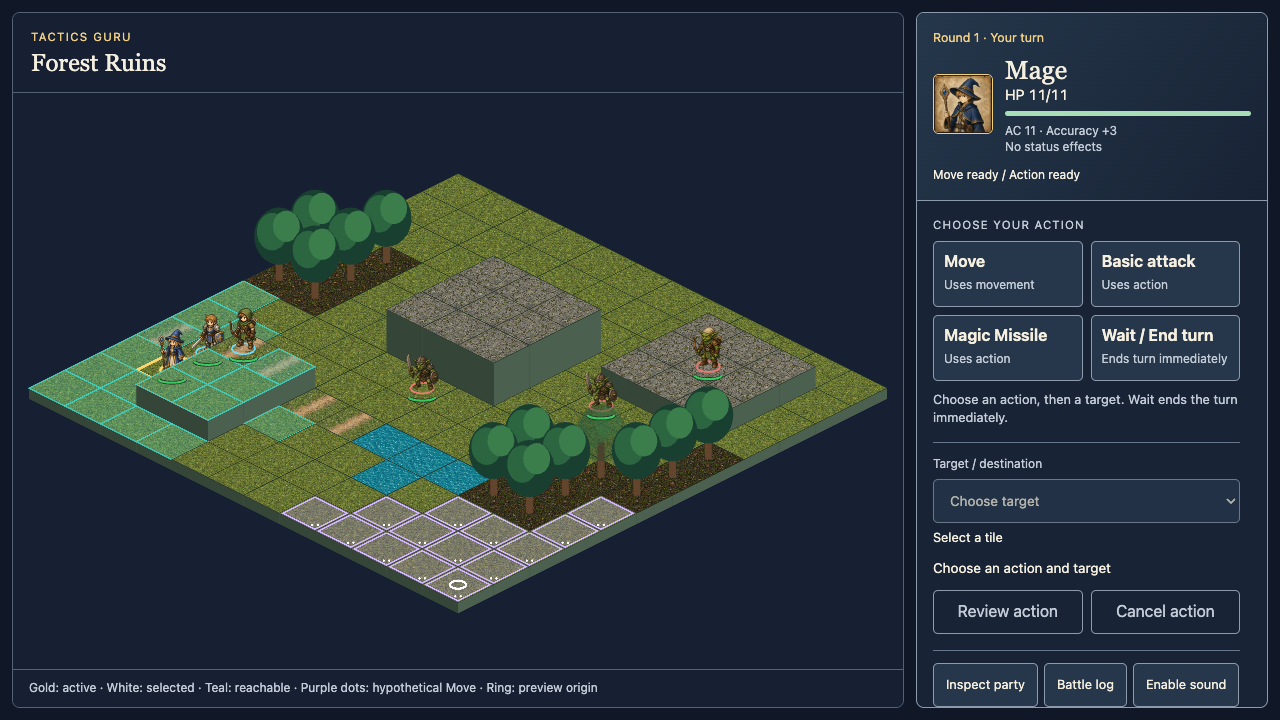
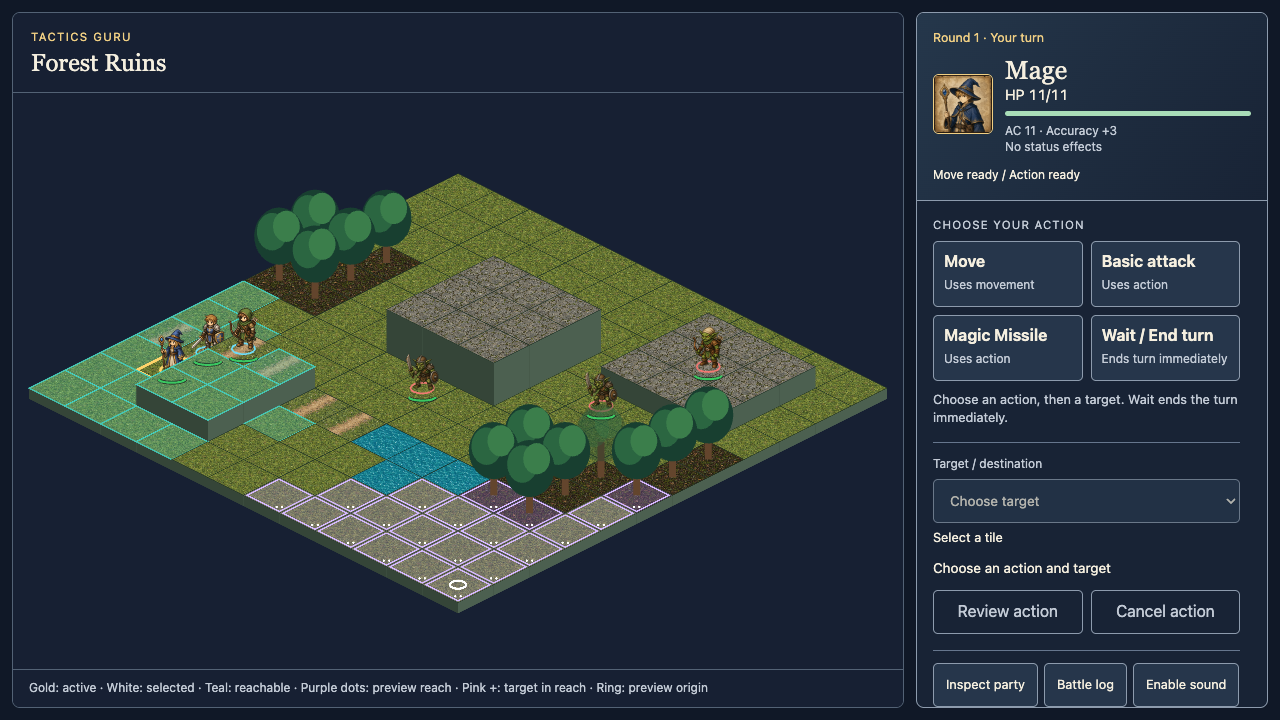
Include occupied cells and ability targets in hover reach

Changed region(s): [[0.1875, 0.6722, 0.4375, 0.7333], [0.2812, 0.9472, 0.5625, 0.9778], [0.4688, 0.6722, 0.5312, 0.7028]]

diff --git a/src/phaser/BoardRenderer.ts b/src/phaser/BoardRenderer.ts
@@ -7,7 +7,7 @@ import { boardBounds, fitBoard, orderTiles, projectTile, tileFaces, BASE_THICKNE
 import { constrainView, MAX_ZOOM, pickTile, screenToBoard, type View } from '../geometry/picking';
 import { HEALTH_BAR, HEALTH_COLORS, healthArc, healthBarScale, healthColor, healthFraction } from './healthBar';
 import { abilityPresentation, type SignatureKind } from './abilityPresentation';
-import type { TargetOverlay, MovementHover } from '../ui/targetPreview';
+import type { TargetOverlay, HoverPreview } from '../ui/targetPreview';
 
 const REACHABLE_COLOR = 0x46d7c7;
 const ACTIVE_COLOR = 0xffd36a;
@@ -34,7 +34,7 @@ export class BoardRenderer {
   private snapshot: BattleState | undefined;
   private reachable: readonly CellPosition[] = [];
   private targets: readonly TargetOverlay[] = [];
-  private hoverPreview: MovementHover | null = null;
+  private hoverPreview: HoverPreview | null = null;
   private selected: Tile | null = null;
   private selectionEvents = 0;
   private animatedSnapshot: BattleState | undefined;
@@ -142,6 +142,12 @@ export class BoardRenderer {
         graphics.fillStyle(0xffffff).fillCircle(-3,13,1.3).fillCircle(3,13,1.3);
       }
       if(flags&256) graphics.lineStyle(2.5,0xffffff).strokeEllipse(0,0,18,9);
+      if(flags&512) {
+        graphics.fillStyle(0xff82c4,0.4).fillPoints(vertices,true);
+        graphics.lineStyle(2.5,0xffb9df).strokePoints(vertices,true);
+        graphics.lineStyle(4,0x172033).lineBetween(-5,13,5,13).lineBetween(0,9,0,17);
+        graphics.lineStyle(2,0xffffff).lineBetween(-5,13,5,13).lineBetween(0,9,0,17);
+      }
       if(flags&48) {
         const valid=!!(flags&16),color=valid?0x63eba0:0xff867c;
         graphics.fillStyle(color,0.32).fillPoints(vertices,true);
@@ -154,7 +160,7 @@ export class BoardRenderer {
     });
   }
 
-  present(snapshot: BattleState, reachable: readonly CellPosition[], selected: CellPosition | null, path: readonly CellPosition[] = [], targets: readonly TargetOverlay[] = [], hover: MovementHover | null = null): void {
+  present(snapshot: BattleState, reachable: readonly CellPosition[], selected: CellPosition | null, path: readonly CellPosition[] = [], targets: readonly TargetOverlay[] = [], hover: HoverPreview | null = null): void {
     // Modal/layout refreshes must not remove a defeated target before impact.
     snapshot = this.animatedSnapshot ?? snapshot;
     this.snapshot = snapshot;
@@ -168,13 +174,15 @@ export class BoardRenderer {
     const pathKeys = new Set(path.map(cellKey));
     const targetByCell = new Map(this.targets.map(target => [cellKey(target.cell),target]));
     const hoverKeys = new Set(this.hoverPreview?.cells.map(cellKey));
+    const hoverTargetKeys = new Set(this.hoverPreview?.targets.map(cellKey));
     for (const tile of this.board.tiles) {
       const key = cellKey(tile);
       const target = targetByCell.get(key);
       const flags = (reachableKeys.has(key) && key !== cellKey(active.cell) ? 1 : 0)
         | (key === cellKey(active.cell) ? 2 : 0) | (pathKeys.has(key) ? 4 : 0) | (this.selected === tile && !target ? 8 : 0)
         | (target ? target.valid ? 16 : 32 : 0) | (target?.selected ? 64 : 0)
-        | (hoverKeys.has(key) ? 128 : 0) | (this.hoverPreview && key===cellKey(this.hoverPreview.origin) ? 256 : 0);
+        | (hoverKeys.has(key) ? 128 : 0) | (this.hoverPreview && key===cellKey(this.hoverPreview.origin) ? 256 : 0)
+        | (hoverTargetKeys.has(key) && !target ? 512 : 0);
       this.highlights.get(key)!.setTexture(this.highlightTexture(flags));
     }
     for (const unit of snapshot.units) {

diff --git a/tests/battle-board.spec.ts b/tests/battle-board.spec.ts
@@ -5,6 +5,8 @@ import { buildBoardPresentation } from '../src/geometry/boardPresentation';
 import { MAX_ZOOM, pickTile, screenToBoard } from '../src/geometry/picking';
 import { fitBoard, projectTile, tileFaces, type Point } from '../src/geometry/iso';
 import { previewMovement } from '../src/domain/grid';
+import { BattleSession } from '../src/app/BattleSession';
+import { hoverPreview } from '../src/ui/targetPreview';
 
 async function report(page: Page) {
   return JSON.parse((await page.locator('#game').getAttribute('data-battle-report'))!);
@@ -28,12 +30,25 @@ test('hovered origins show hypothetical movement range without changing selectio
     await page.mouse.move(r.transform.x+p.x*r.transform.scale,r.transform.y+p.y*r.transform.scale);
   };
   await hover(origin);
-  await expect.poll(async()=>(await report(page)).hover).toEqual({origin,cells:expected.cells.map(c=>c.cell)});
-  await expect(page.locator('#battle-board-caption')).toContainText('Purple dots: hypothetical Move');
+  const expectedHover=hoverPreview(new BattleSession(battleCatalog,state,state.seed),origin);
+  await expect.poll(async()=>(await report(page)).hover).toEqual(expectedHover);
+  expect(expectedHover?.cells).toEqual(expect.arrayContaining(expected.cells.map(c=>c.cell)));
+  await expect(page.locator('#battle-board-caption')).toContainText('Pink +: target in reach');
   const shown=await settledReport(page);expect(shown.selected).toBeNull();expect(shown.selectionEvents).toBe(initial.selectionEvents);
   expect(await page.locator('#game').getAttribute('data-session')).toBe(before);
   expect(await page.evaluate(()=>JSON.stringify(localStorage))).toBe(saved);
   await page.screenshot({path:info.outputPath('hover-movement-range.png')});
+  // Screenshot regression: occupied goblin cells must remain in the preview, including Magic Missile reach.
+  const mageOrigin={x:4,y:8};
+  if(state.units.find((u:any)=>u.id===initial.activeId).defId!=='mage')throw Error('Expected authored opening mage turn');
+  await hover(mageOrigin);
+  const magePreview=hoverPreview(new BattleSession(battleCatalog,state,state.seed),mageOrigin)!;
+  const goblin=state.units.find((u:any)=>u.side==='enemy' && magePreview.targets.some(c=>c.x===u.cell.x&&c.y===u.cell.y));
+  expect(goblin).toBeDefined();
+  await expect.poll(async()=>(await report(page)).hover?.cells).toContainEqual(goblin.cell);
+  await expect.poll(async()=>(await report(page)).hover?.targets).toContainEqual(goblin.cell);
+  expect(await page.locator('#game').getAttribute('data-session')).toBe(before);
+  await settledReport(page);await page.screenshot({path:info.outputPath('hover-goblin-target.png')});
   await page.mouse.move(1,1);await expect.poll(async()=>(await report(page)).hover).toBeNull();
   await hover(origin);await page.mouse.wheel(0,-100);
   await expect.poll(async()=>(await report(page)).hover).toBeNull();

diff --git a/tests/unit/battleSession.test.ts b/tests/unit/battleSession.test.ts
@@ -6,7 +6,7 @@ import { replayBattle } from '../../src/domain/turns';
 import { assert } from 'vitest';
 import { saveFixtures } from '../helpers/saveFixtures';
 import { nextUint32 } from '../../src/domain/rng';
-import { targetOverlays } from '../../src/ui/targetPreview';
+import { targetOverlays, hoverPreview } from '../../src/ui/targetPreview';
 
 const make = (seed = 1) => new BattleSession(catalog, 'map:forest_ruins', seed);
 const finishEnemies = (s: BattleSession) => {
@@ -16,6 +16,24 @@ const finishEnemies = (s: BattleSession) => {
   }
 };
 describe('battle session', () => {
+  it('hover reach includes occupied movement endpoints and Magic Missile targets beyond Move range without mutating the session',()=>{
+    const initial=make(2).state,mage=initial.units.find(u=>u.defId==='mage')!,enemy=initial.units.find(u=>u.side==='enemy')!;
+    const state={...initial,activeIndex:initial.initiative.indexOf(mage.id),units:initial.units.map(u=>u.id===enemy.id?{...u,cell:{x:7,y:6}}:u)};
+    const s=new BattleSession(catalog,state,state.seed),origin={x:4,y:8};
+    s.prepare({type:'endTurn',unitId:mage.id});const pending=s.pending,before=s.state;
+    const movement=previewMovement(s.state,mage.id,catalog,origin);assert(movement.ok);
+    expect(movement.cells.map(c=>c.cell)).not.toContainEqual({x:7,y:6});
+    const hover=hoverPreview(s,origin)!;
+    expect(hover.cells).toContainEqual({x:7,y:6});expect(hover.targets).toContainEqual({x:7,y:6});
+    expect(hover.cells).toContainEqual({x:6,y:8}); // Water is in spell reach even though it cannot be walked on.
+    expect(s.state).toBe(before);expect(s.pending).toBe(pending);expect(s.events).toEqual([]);
+    const blockedState={...state,units:state.units.map(u=>u.id===enemy.id?{...u,cell:{x:2,y:3}}:u)};
+    const blocked=new BattleSession(catalog,blockedState,state.seed);
+    expect(hoverPreview(blocked,{x:0,y:3})!.targets).not.toContainEqual({x:2,y:3});
+    const spent=new BattleSession(catalog,{...state,units:state.units.map(u=>u.id===mage.id?{...u,hasActed:true}:u)},state.seed);
+    expect(hoverPreview(spent,origin)!.targets).toEqual([]);
+    expect(hoverPreview(spent,origin)!.cells).not.toContainEqual({x:7,y:6});
+  });
   it('target overlays retain domain rejection reasons and never prepare, resolve or consume RNG', () => {
     const initial = make(2).state;
     const ranger = initial.units.find(u=>u.defId==='ranger')!;

diff --git a/src/ui/targetPreview.ts b/src/ui/targetPreview.ts
@@ -2,16 +2,34 @@ import type { CellPosition } from '../content/types';
 import type { BattleSession } from '../app/BattleSession';
 import { actionCommand, type Action } from './hud';
 import { previewMovement } from '../domain/grid';
+import { lineOfSightBlocked, manhattanDistance } from '../domain/targeting';
+import { previewAttack, previewMagicMissile } from '../domain/combat';
 
-export interface MovementHover {
+export interface HoverPreview {
   readonly origin: CellPosition;
   readonly cells: readonly CellPosition[];
+  readonly targets: readonly CellPosition[];
 }
 
-export function movementHover(session: BattleSession, origin: CellPosition | null): MovementHover | null {
+export function hoverPreview(session: BattleSession, origin: CellPosition | null): HoverPreview | null {
   if (session.phase !== 'player' || !origin) return null;
   const reach = previewMovement(session.state, session.active.id, session.catalog, origin);
-  return reach.ok ? {origin, cells:reach.cells.map(c=>c.cell)} : null;
+  if (!reach.ok) return null;
+  const {catalog,state,active}=session;
+  const abilities=active.hasActed?[]:Object.values(catalog.abilities).filter(a=>a.owners.includes(active.defId));
+  const cells=new Map(reach.cells.map(c=>[`${c.cell.x},${c.cell.y}`,c.cell]));
+  for(const cell of catalog.maps[state.mapId].cells) {
+    const distance=manhattanDistance(origin,cell);
+    if(abilities.some(a=>distance>=a.rangeMin && distance<=a.rangeMax)
+      && !lineOfSightBlocked(catalog,state.mapId,origin,cell))cells.set(`${cell.x},${cell.y}`,{x:cell.x,y:cell.y});
+  }
+  // Query a relocated snapshot only; never prepare or resolve a command in the live session.
+  const hypothetical={...state,units:state.units.map(u=>u.id===active.id?{...u,cell:origin}:u)};
+  const targets=state.units.filter(u=>u.hp>0 && u.id!==active.id && abilities.some(a=>{
+    const command={type:'useAbility' as const,unitId:active.id,abilityId:a.id,target:{unitId:u.id}};
+    return (a.kind==='magicMissile'?previewMagicMissile:previewAttack)(hypothetical,command,catalog).ok;
+  })).map(u=>u.cell);
+  return {origin,cells:[...cells.values()],targets};
 }
 
 export interface TargetOverlay {

diff --git a/tests/unit/grid.test.ts b/tests/unit/grid.test.ts
@@ -39,13 +39,24 @@ it('projects movement from a hypothetical origin using the actor stats without m
   expect(reach.cells).toContainEqual({cell:{x:2,y:1},cost:2});
   expect(reach.cells.some(r=>r.cell.x===3&&r.cell.y===1)).toBe(false); // Jump blocks the rise of two.
   expect(reach.cells.some(r=>r.cell.x===2&&r.cell.y===2)).toBe(false); // Water.
-  expect(reach.cells.some(r=>r.cell.x===3&&r.cell.y===2)).toBe(false); // Living enemy.
+  expect(reach.cells.some(r=>r.cell.x===3&&r.cell.y===2)).toBe(false); // Water and excessive elevation block every route.
   expect(reach.cells).toContainEqual({cell:{x:0,y:0},cost:2}); // Actual actor cell is released for this hypothetical query.
   expect(JSON.stringify(state)).toBe(before);
   expect(previewMovement(state,1,catalog,{x:3,y:2})).toEqual({ok:false,reason:'occupied'});
   expect(previewMovement(state,1,catalog,{x:2,y:2})).toEqual({ok:false,reason:'notWalkable'});
   expect(previewMovement(state,1,catalog,{x:-1,y:1})).toEqual({ok:false,reason:'outOfBounds'});
   expect(previewMovement({...state,units:state.units.map(u=>u.id===1?{...u,hasMoved:true}:u)},1,catalog,origin)).toEqual({ok:false,reason:'alreadyMoved'});
+});
+
+it('includes occupied hypothetical endpoints without traversing through them or changing real movement',()=>{
+  const {catalog,state}=fixture(cells=>{for(let i=4;i<12;i++)cells[i].terrainId='water';});
+  const s={...state,units:state.units.map(u=>u.id===2?{...u,cell:{x:1,y:0}}:u)};
+  const hover=previewMovement(s,1,catalog,{x:0,y:0});assert(hover.ok);
+  expect(hover.cells).toContainEqual({cell:{x:1,y:0},cost:1});
+  expect(hover.cells.some(c=>c.cell.x===2&&c.cell.y===0)).toBe(false);
+  const actual=previewMovement(s,1,catalog);assert(actual.ok);
+  expect(actual.cells.some(c=>c.cell.x===1&&c.cell.y===0)).toBe(false);
+  expect(moveUnit(s,command(1,0),catalog)).toEqual({ok:false,reason:'occupied'});
 });
 it('enforces uphill Jump and cost boundaries while allowing unrestricted downhill', () => {
   const move = (edit: Parameters<typeof fixture>[0]) => { const {catalog,state}=fixture(edit); return previewMove(state,command(1,0),catalog); };

diff --git a/src/domain/grid.ts b/src/domain/grid.ts
@@ -26,19 +26,22 @@ function search(state: BattleState, unitId: number, catalog: ContentCatalog, ori
     for (const direction of MOVEMENT_DIRECTIONS) {
       const cell = { x: current.cell.x + direction.x, y: current.cell.y + direction.y };
       const tile = tiles.get(key(cell));
-      if (!tile || cell.x < 0 || cell.y < 0 || cell.x >= map.width || cell.y >= map.height || occupied.has(key(cell))) continue;
+      const occupiedCell = occupied.has(key(cell));
+      if (!tile || cell.x < 0 || cell.y < 0 || cell.x >= map.width || cell.y >= map.height || (occupiedCell && !origin)) continue;
       const terrain = catalog.terrains[tile.terrainId];
       const uphill = Math.max(0, tile.elevation - from.elevation);
       if (!terrain.walkable || uphill > stats.jump) continue;
       const cost = current.cost + terrain.moveCost + uphill;
       if (cost > stats.move || cost >= (routes.get(key(cell))?.cost ?? Infinity)) continue;
       const route = { cell, cost, path: [...current.path, cell] };
-      routes.set(key(cell), route); frontier.push(route);
+      routes.set(key(cell), route);
+      // A hypothetical range includes occupied endpoints, but never paths through units.
+      if (!occupiedCell) frontier.push(route);
     }
   }
   return routes;
 }
-/** Reachability for the active actor; an optional hypothetical origin is presentation-only and never moves the actor. */
+/** Optional hypothetical origins include occupied endpoints for planning, without moving the actor or traversing units. */
 export function previewMovement(state: unknown, unitId: number, catalog: ContentCatalog, origin?: CellPosition): { readonly ok: true; readonly cells: readonly ReachableCell[] } | Rejection {
   const intent = previewCommand(state, { type: 'endTurn', unitId }, catalog);
   if (!intent.ok) return intent;

diff --git a/src/phaser/BattleScene.ts b/src/phaser/BattleScene.ts
@@ -9,7 +9,7 @@ import type { Point, BoardRegion } from '../geometry/iso';
 import { BattleHud, actionCommand, previewText, displayName, unitFeedback, unitLabel, type Action } from '../ui/hud';
 import { BattleDialogs } from '../ui/dialogs';
 import { BattleSaveControls } from '../ui/persistence';
-import { targetOverlays, movementHover } from '../ui/targetPreview';
+import { targetOverlays, hoverPreview } from '../ui/targetPreview';
 import { BoardRenderer } from './BoardRenderer';
 import { bindBoardInput } from './BoardInput';
 import { contentLoadPlan, loadContentAssets } from './contentLoading';
@@ -66,7 +66,7 @@ export class BattleScene extends Phaser.Scene {
       if(!live)return;
       const reach=session.phase==='player' && (!action || action==='move')?previewMovement(session.state,session.active.id,catalog):null;
       const preview=session.pending?.type==='move'?previewMove(session.state,session.pending,catalog):null;
-      const hover=!dialogs.open?movementHover(session,hovered ?? (session.pending?.type==='move'?session.pending.to:null)):null;
+      const hover=!dialogs.open?hoverPreview(session,hovered ?? (session.pending?.type==='move'?session.pending.to:null)):null;
       board.present(session.state,reach?.ok?reach.cells.map(c=>c.cell):[],selected,preview?.ok?preview.path:[],targetOverlays(session,action,selected),hover);
       hud.render(action,selected,message);
       game.dataset.phase=session.phase;

diff --git a/src/ui/hud.ts b/src/ui/hud.ts
@@ -133,7 +133,7 @@ export class BattleHud {
     this.root.querySelector('#battle-preview')!.textContent=s.error?`${s.phase==='error'?'Battle stopped':'Unavailable'}: ${s.error}`:message;
     document.querySelector('#battle-board-caption')!.textContent = (enabled && action && action!=='move' && !actor.hasActed
       ? 'Gold: active · ✓ valid target · × unavailable · Double outline: selected'
-      : 'Gold: active · White: selected · Teal: reachable') + ' · Purple dots: hypothetical Move · Ring: preview origin';
+      : 'Gold: active · White: selected · Teal: reachable') + ' · Purple dots: preview reach · Pink +: target in reach · Ring: preview origin';
     const options: {cell:CellPosition;label:string}[]=[];
     if(enabled && action==='move') {const reach=previewMovement(s.state,actor.id,s.catalog);if(reach.ok) for(const c of reach.cells.filter(c=>c.cost>0)) options.push({cell:c.cell,label:`(${c.cell.x}, ${c.cell.y}) · cost ${c.cost}`});}
     else if(enabled && action) for(const u of s.state.units.filter(u=>u.side!==actor.side && u.hp>0)) options.push({cell:u.cell,label:unitLabel(s,u)});

diff --git a/docs/target-preview-overlays.md b/docs/target-preview-overlays.md
@@ -26,15 +26,19 @@ Changing action/target recomputes overlays. Review and inspection preserve the c
 
 ## Verification
 
-### Hover movement from a hypothetical origin
+### Movement and ability reach from a hypothetical origin
 
 The follow-up source review uses current legacy revision `e9433f6b608ae6b2d95418615cce9cf17dadcf74`: [BattleView.gd:2791](https://github.com/luminari-gurus/tactics-guru/blob/e9433f6b608ae6b2d95418615cce9cf17dadcf74/scripts/view/BattleView.gd#L2791) publishes the hovered cell; [BattleController.gd:270](https://github.com/luminari-gurus/tactics-guru/blob/e9433f6b608ae6b2d95418615cce9cf17dadcf74/scripts/combat/BattleController.gd#L270) previews a movement path and a [move-then-attack plan](https://github.com/luminari-gurus/tactics-guru/blob/e9433f6b608ae6b2d95418615cce9cf17dadcf74/scripts/combat/BattleController.gd#L1260). The caller selected a movement-origin preview using the **active unit's Move/Jump stats**, centered on the hovered tile.
 
-The v2 overlay adapts that hover interaction to a hypothetical movement query. Purple dotted diamonds show tiles reachable from the preview origin; a white ring marks that origin. The active unit stays on its actual tile. The query shares the same weighted movement search as real moves: terrain cost, uphill cost, Jump, occupancy and full current Move allowance all apply. A different hypothetical origin releases the actor's actual cell for this query. Occupied, unwalkable and out-of-bounds origins produce no preview, and spent movement or non-player phases disable it. The origin may lie outside actual reach; this is planning, not an extra move.
+The v2 overlay combines hypothetical movement and ability reach from the preview origin; a white ring marks that origin. The active unit stays on its actual tile. Movement uses the same weighted search as real moves: terrain cost, uphill cost, Jump and full current Move allowance apply. Occupied endpoints are included but cannot be traversed, and a different hypothetical origin releases the actor's actual cell for this query. Ability reach uses owned ability ranges and line of sight, including occupied cells and terrain that cannot be walked on. Legal living-unit targets are checked with the actual combat previews on a relocated copy of the state and get pink fills plus a white plus marker. Direct action-target markers retain priority while an attack is selected. Spent actions remove ability reach, and spent movement or non-player phases disable the planning overlay. Occupied, unwalkable and out-of-bounds origins produce no preview. The origin may lie outside actual reach; this is planning, not an extra move.
 
 Mouse/pen hover changes neither selection nor pending commands, budgets, RNG, state or saves. Drag/zoom, leaving the board, modal entry, resize, suspension and action/lifecycle transitions clear the pointer origin. A prepared Move destination supplies the same range for touch and keyboard users and restores its preview after hovering elsewhere. Arrow navigation also previews its cursor cell. Cancellation clears the relevant preview; review hides it, and resolution/restart/encounter replacement removes it. The stable caption explains the shapes without resizing when the hover changes.
 
 Hover screenshots: [desktop](qa/issue-142-target-previews/desktop-hover-movement.png), [portrait](qa/issue-142-target-previews/mobile-portrait-hover-movement.png), [landscape](qa/issue-142-target-previews/mobile-landscape-hover-movement.png).
+
+Occupied-target correction (2026-10-19): the preview includes occupied movement endpoints and ability-range cells, so a goblin in Magic Missile reach stays highlighted even outside Move range. Unit tests cover a five-cell Magic Missile target, blocked line of sight, spent actions, and occupied endpoints that stop traversal. The browser regression reproduces the opening Mage preview from `(4, 8)` without altering selection, pending commands or saves. Corrected target screenshots: [desktop](qa/issue-142-target-previews/desktop-hover-goblin.png), [portrait](qa/issue-142-target-previews/mobile-portrait-hover-goblin.png), [landscape](qa/issue-142-target-previews/mobile-landscape-hover-goblin.png).
+
+This correction passed `npm run build`, all 710 unit tests, and `npm test -- tests/battle-board.spec.ts tests/battle-animations.spec.ts --grep 'hovered origins|real controls|legal player movement|target overlays'` with installed Chrome: 18 browser regressions plus 18 encounter and 21 run-item posttests (57 checks across desktop and mobile emulation). `git diff --check` passed. Prior broader validation below is retained; complete runs were not repeated for this correction.
 
 The hover extension passed `npm run build` (including content validation and both TypeScript checks), all 708 unit tests, and the focused hover scenario in all three browser profiles. Its regression command was:
 

diff --git a/README.md b/README.md
@@ -7,7 +7,7 @@ Phaser 4 + TypeScript + Vite tactical-board prototype. The default scene renders
 The proof-of-fit scene remains available at `/?scene=proof`, and the content-loading smoke scene at `/?scene=content-smoke`.
 
 During attack targeting, board diamonds show ✓ valid and × unavailable targets; a double outline marks the selected cell. Movement highlights return when targeting is cancelled. See the [legacy overlay review and target preview behavior](docs/target-preview-overlays.md).
-Hover a free, walkable tile to preview movement from that tile with the active unit's Move/Jump stats. Purple dotted diamonds show this hypothetical range and a white ring marks its origin. Keyboard navigation and a prepared Move destination expose the same preview; hovering never changes selection or prepares a command.
+Hover a free, walkable tile to preview movement and ability reach from that tile with the active unit's stats. Purple dotted diamonds include reachable occupied endpoints and ability-range cells; pink plus markers identify units that can be targeted from the preview origin, marked by a white ring. Keyboard navigation and a prepared Move destination expose the same preview; hovering never changes selection or prepares a command.
 
 ## Requirements
 

diff --git a/docs/DESIGN.md b/docs/DESIGN.md
@@ -208,10 +208,13 @@ for valid targets and coral `#ff867c` X-mark diamonds for unavailable targets.
 A white inner diamond plus a heavier outer border marks the selected target;
 the board caption explains these shapes. See the [legacy review and preview
 contract](target-preview-overlays.md).
-Hypothetical movement from the hovered tile uses purple `#b48aff` fills with inset
+Hypothetical movement and ability reach from the hovered tile use purple `#b48aff` fills with inset
 lavender outlines and paired white dots. A small white ring marks the preview
 origin. These shapes remain distinct from teal actual reach, selected diamonds
 and attack check/X markers; the board caption identifies the hypothetical range.
+Occupied cells are included when reachable. Legal ability targets from the preview
+origin use pink `#ff82c4` fills and a white plus marker; direct action-target check/X
+markers retain priority while an attack is selected.
 
 [Unit health arcs](../src/phaser/healthBar.ts) have their own functional palette:
 green `#3bc761` above 50%, amber `#e0992e` above 25% through 50%, red `#db2e29` at or
